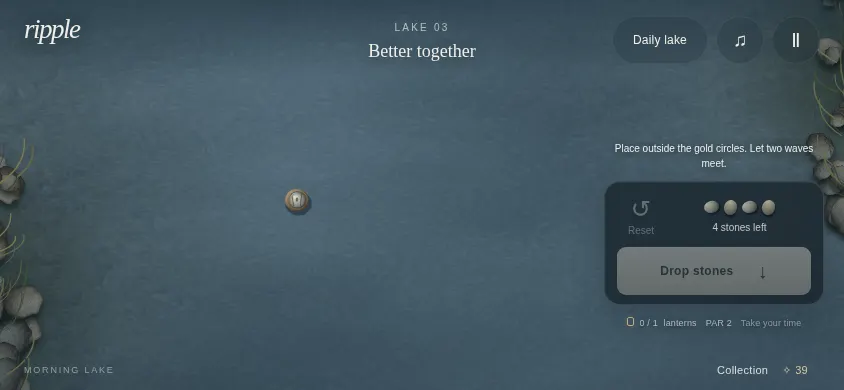
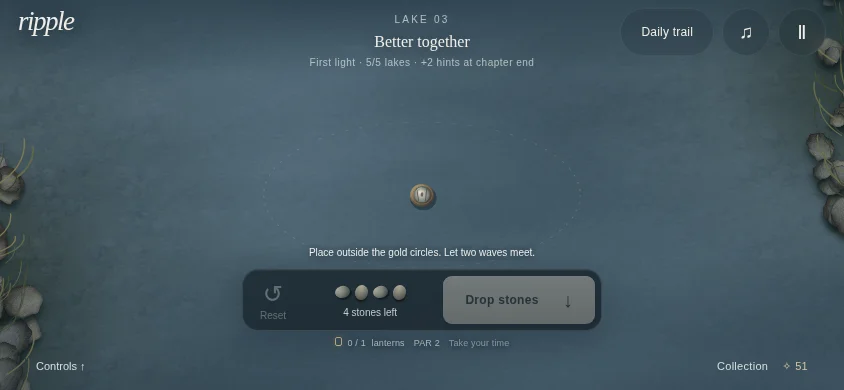
Record passing fullscreen and portal QA with updated screenshots [skip ci]

diff --git a/README.md b/README.md
@@ -50,7 +50,7 @@ Ponds 1–10 are fixed and verified. Pond 3 introduces interference; two failed 
 - Chapters contain five lakes. Finishing a chapter once awards three bonus stars and two hint credits. A compact chapter goal stays visible during play.
 - Best stone/drop records and a chapter-based level picker let players revisit unlocked lakes for three stars. Stars, chapter rewards and hint credits cannot be farmed by repeating a solve.
 - Each first solve earns one hint credit. Players begin with three. After two failed attempts, the Hint dialog offers a solution ring for one credit; after six failures, a player without credits can use free help.
-- The Daily Trail unlocks after lake 3: three lakes of increasing complexity (8/12/16), seeded by UTC date and stage. All players get identical geometry. Each stage saves independently; finishing all three grows the streak and grants two credits once.
+- The Daily Trail unlocks after lake 3: three lakes of increasing complexity (8/12/16), seeded by UTC date and stage. All players get identical geometry. Closing and reopening restores the active daily stage and placed stones. Each stage saves independently; finishing all three grows the streak and grants two credits once.
 - The daily share card reports up to 9 stars, total stones, and 3/3 lakes, with clipboard fallback. It contains no ad bonus stars.
 - Three daily goals with small bonuses; replaying a completed pond cannot repeatedly farm its stars or goals.
 - Local save in standalone mode. When the initialized CrazyGames SDK Data module is present, it becomes the save backend. Cloud data is read before writing; a late initialization reconciles earned progress.
@@ -132,7 +132,11 @@ npx playwright install --with-deps chromium
 npm run test:browser
 ```
 
-GitHub Actions runs the same checks and uploads screenshots, the browser report and the upload ZIP as **ripple-validation-and-upload**. The script checks initial interaction, mid-level restore, all ten onboarding solutions, failed attempts, delays, pause/resume, daily sharing, 320/390 px portrait layouts, 844 px landscape, and 60/144 Hz peak equality.
+GitHub Actions runs the same checks and uploads screenshots, the browser report and the upload ZIP as **ripple-validation-and-upload**. The script checks initial interaction, mid-level restore, all ten onboarding solutions, chapter rewards, failed attempts, earned hints, delays, pause/resume, three daily stages, active-mode/stage/stone restore on reload, sharing, replay anti-farming, all ten CrazyGames frame sizes plus three phone layouts, full-screen pointer mapping, 60/144 Hz peak equality, and mocked SDK/cloud/ad/mute behavior.
+
+**Release validation:** 21 unit tests and all 16 Chromium browser check groups passed, with no browser errors. All ten required CrazyGames sizes plus three phone layouts passed. [Passing run](https://github.com/kallevanderveen8-lang/Riippel/actions/runs/39792903212); exact tested commit and checks are in `reports/browser.json`. First contentful paint was 172 ms on this headless CI machine; this is not a universal phone/network guarantee. The Basic build is 98,515 bytes uncompressed / 32,847 bytes zipped.
+
+Inspected screenshots: [desktop](docs/desktop.webp), [phone](docs/mobile.webp), [landscape](docs/landscape.webp), [full-lake ripple](docs/waves-fullscreen.webp). The in-chat copy has separate local saves and no SDK/ad requests.
 
 ## CrazyGames integration (official docs checked 22 October 2026)
 
